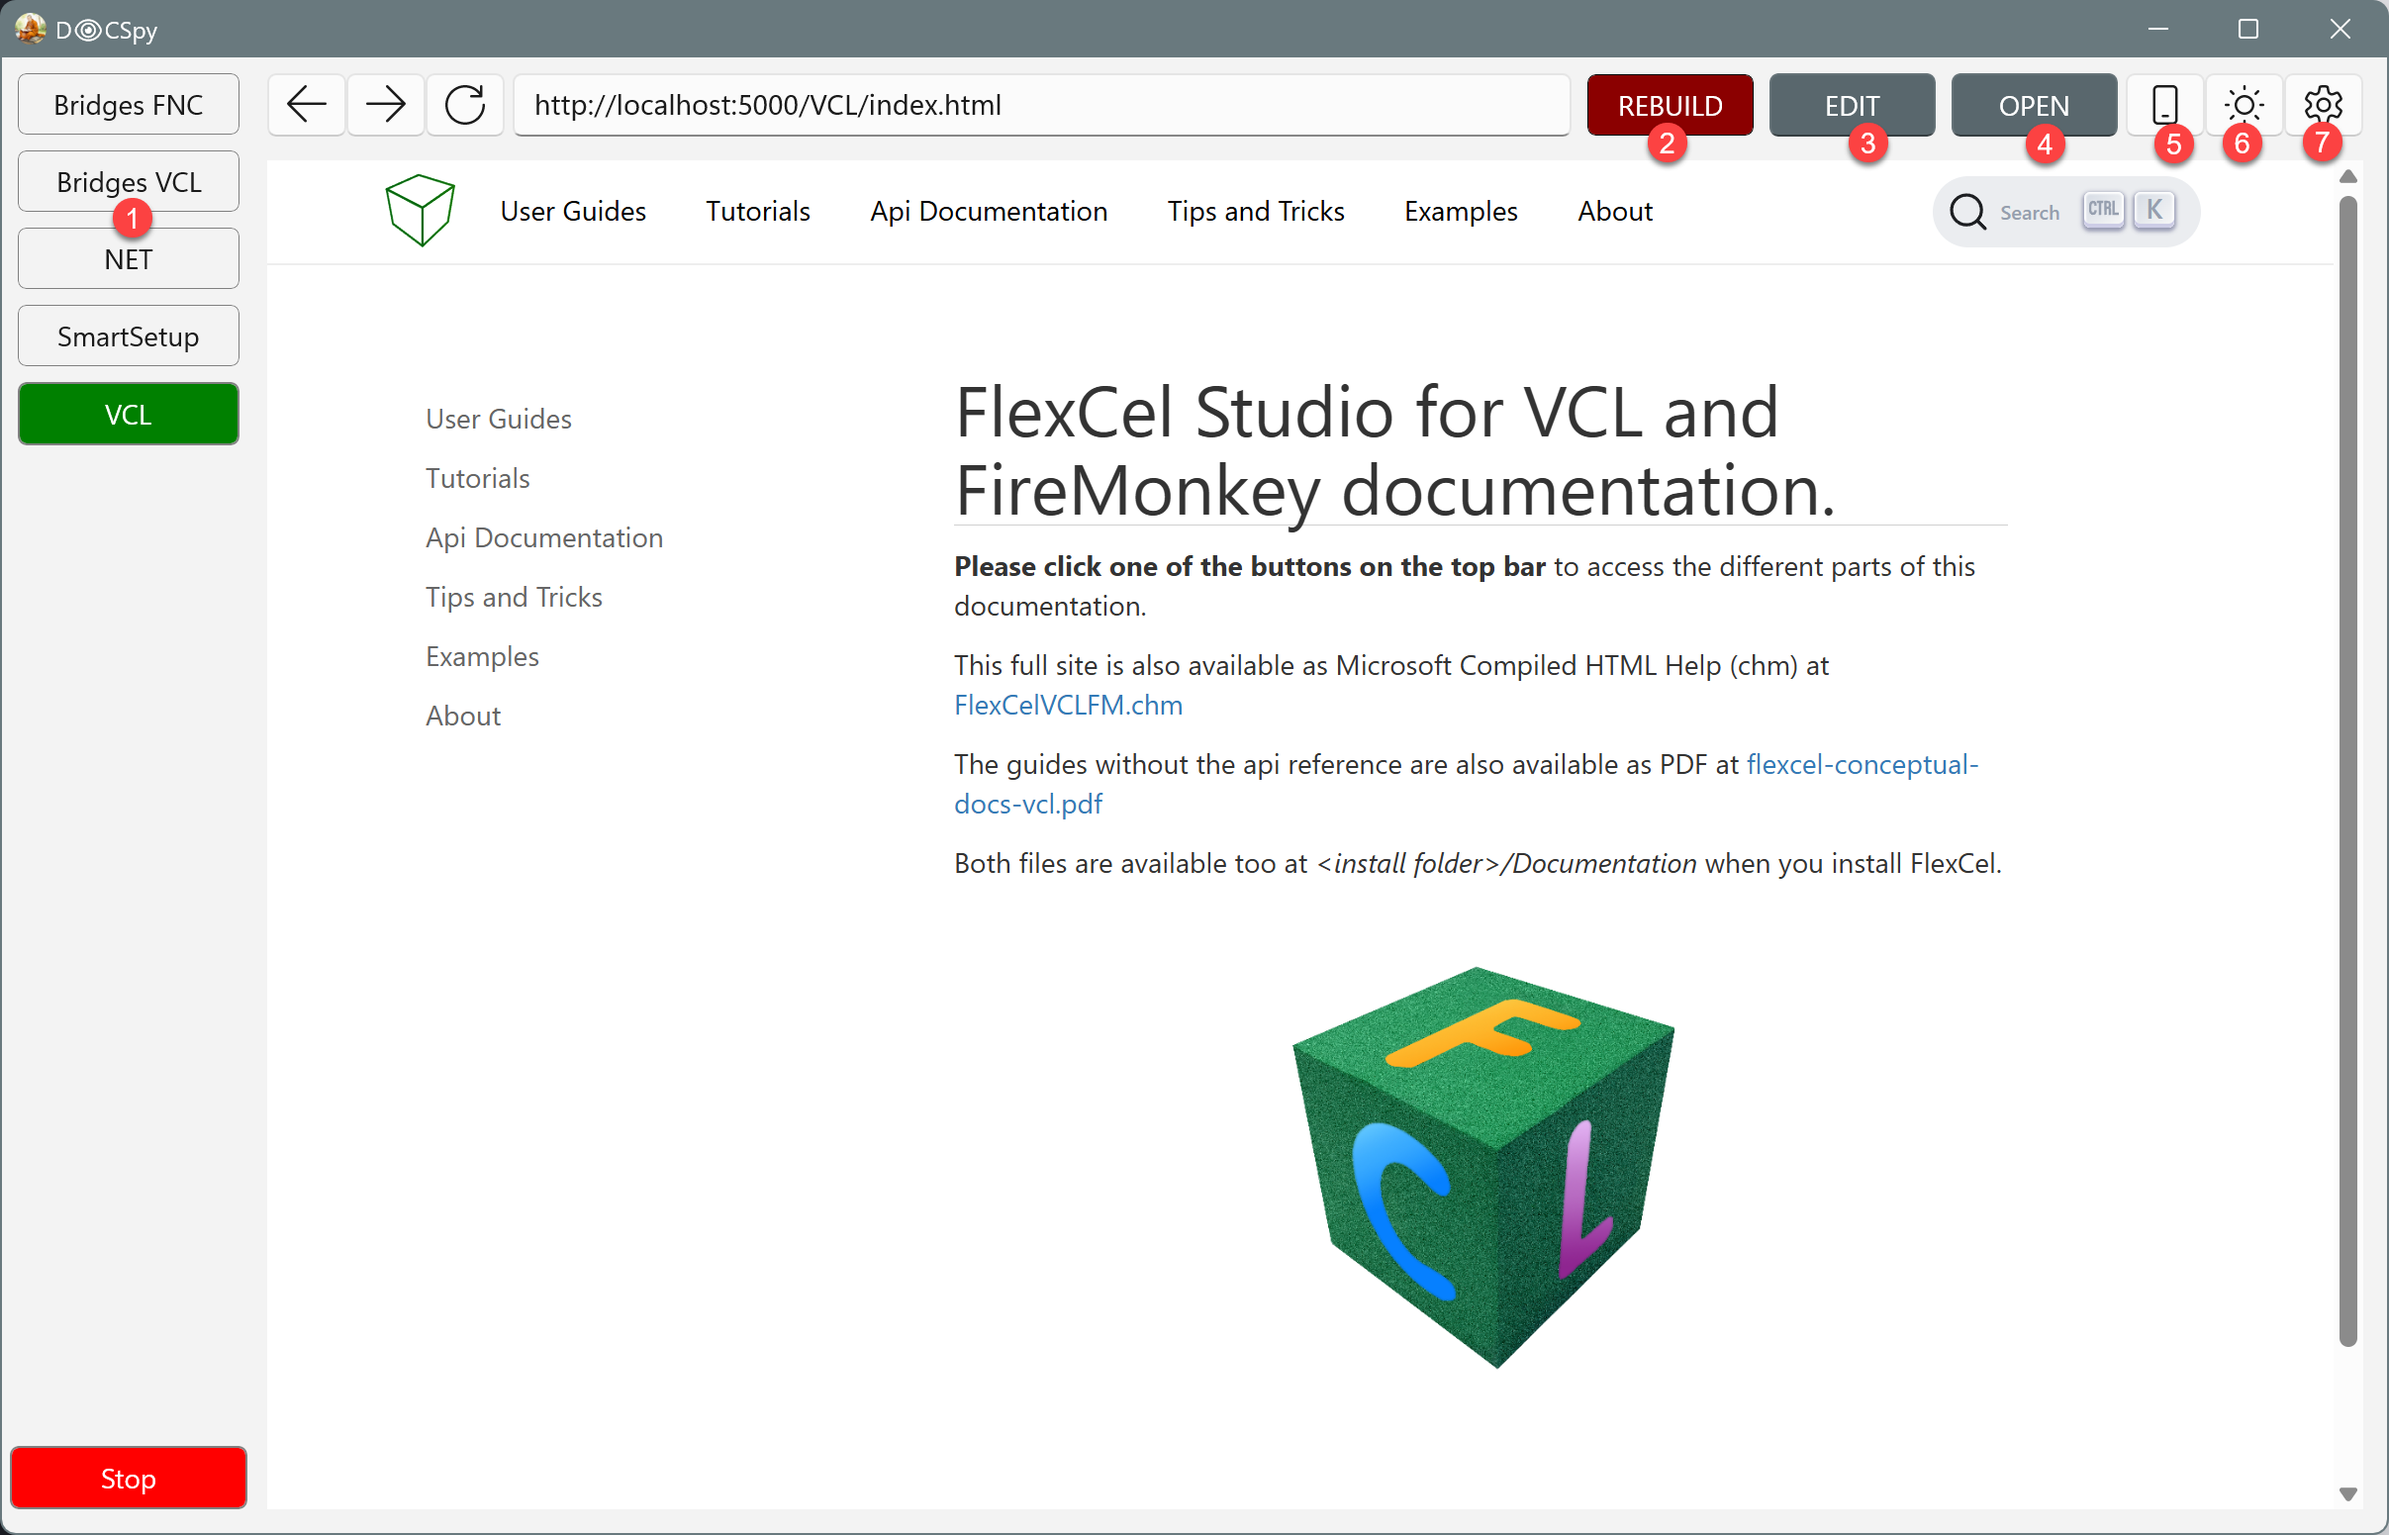
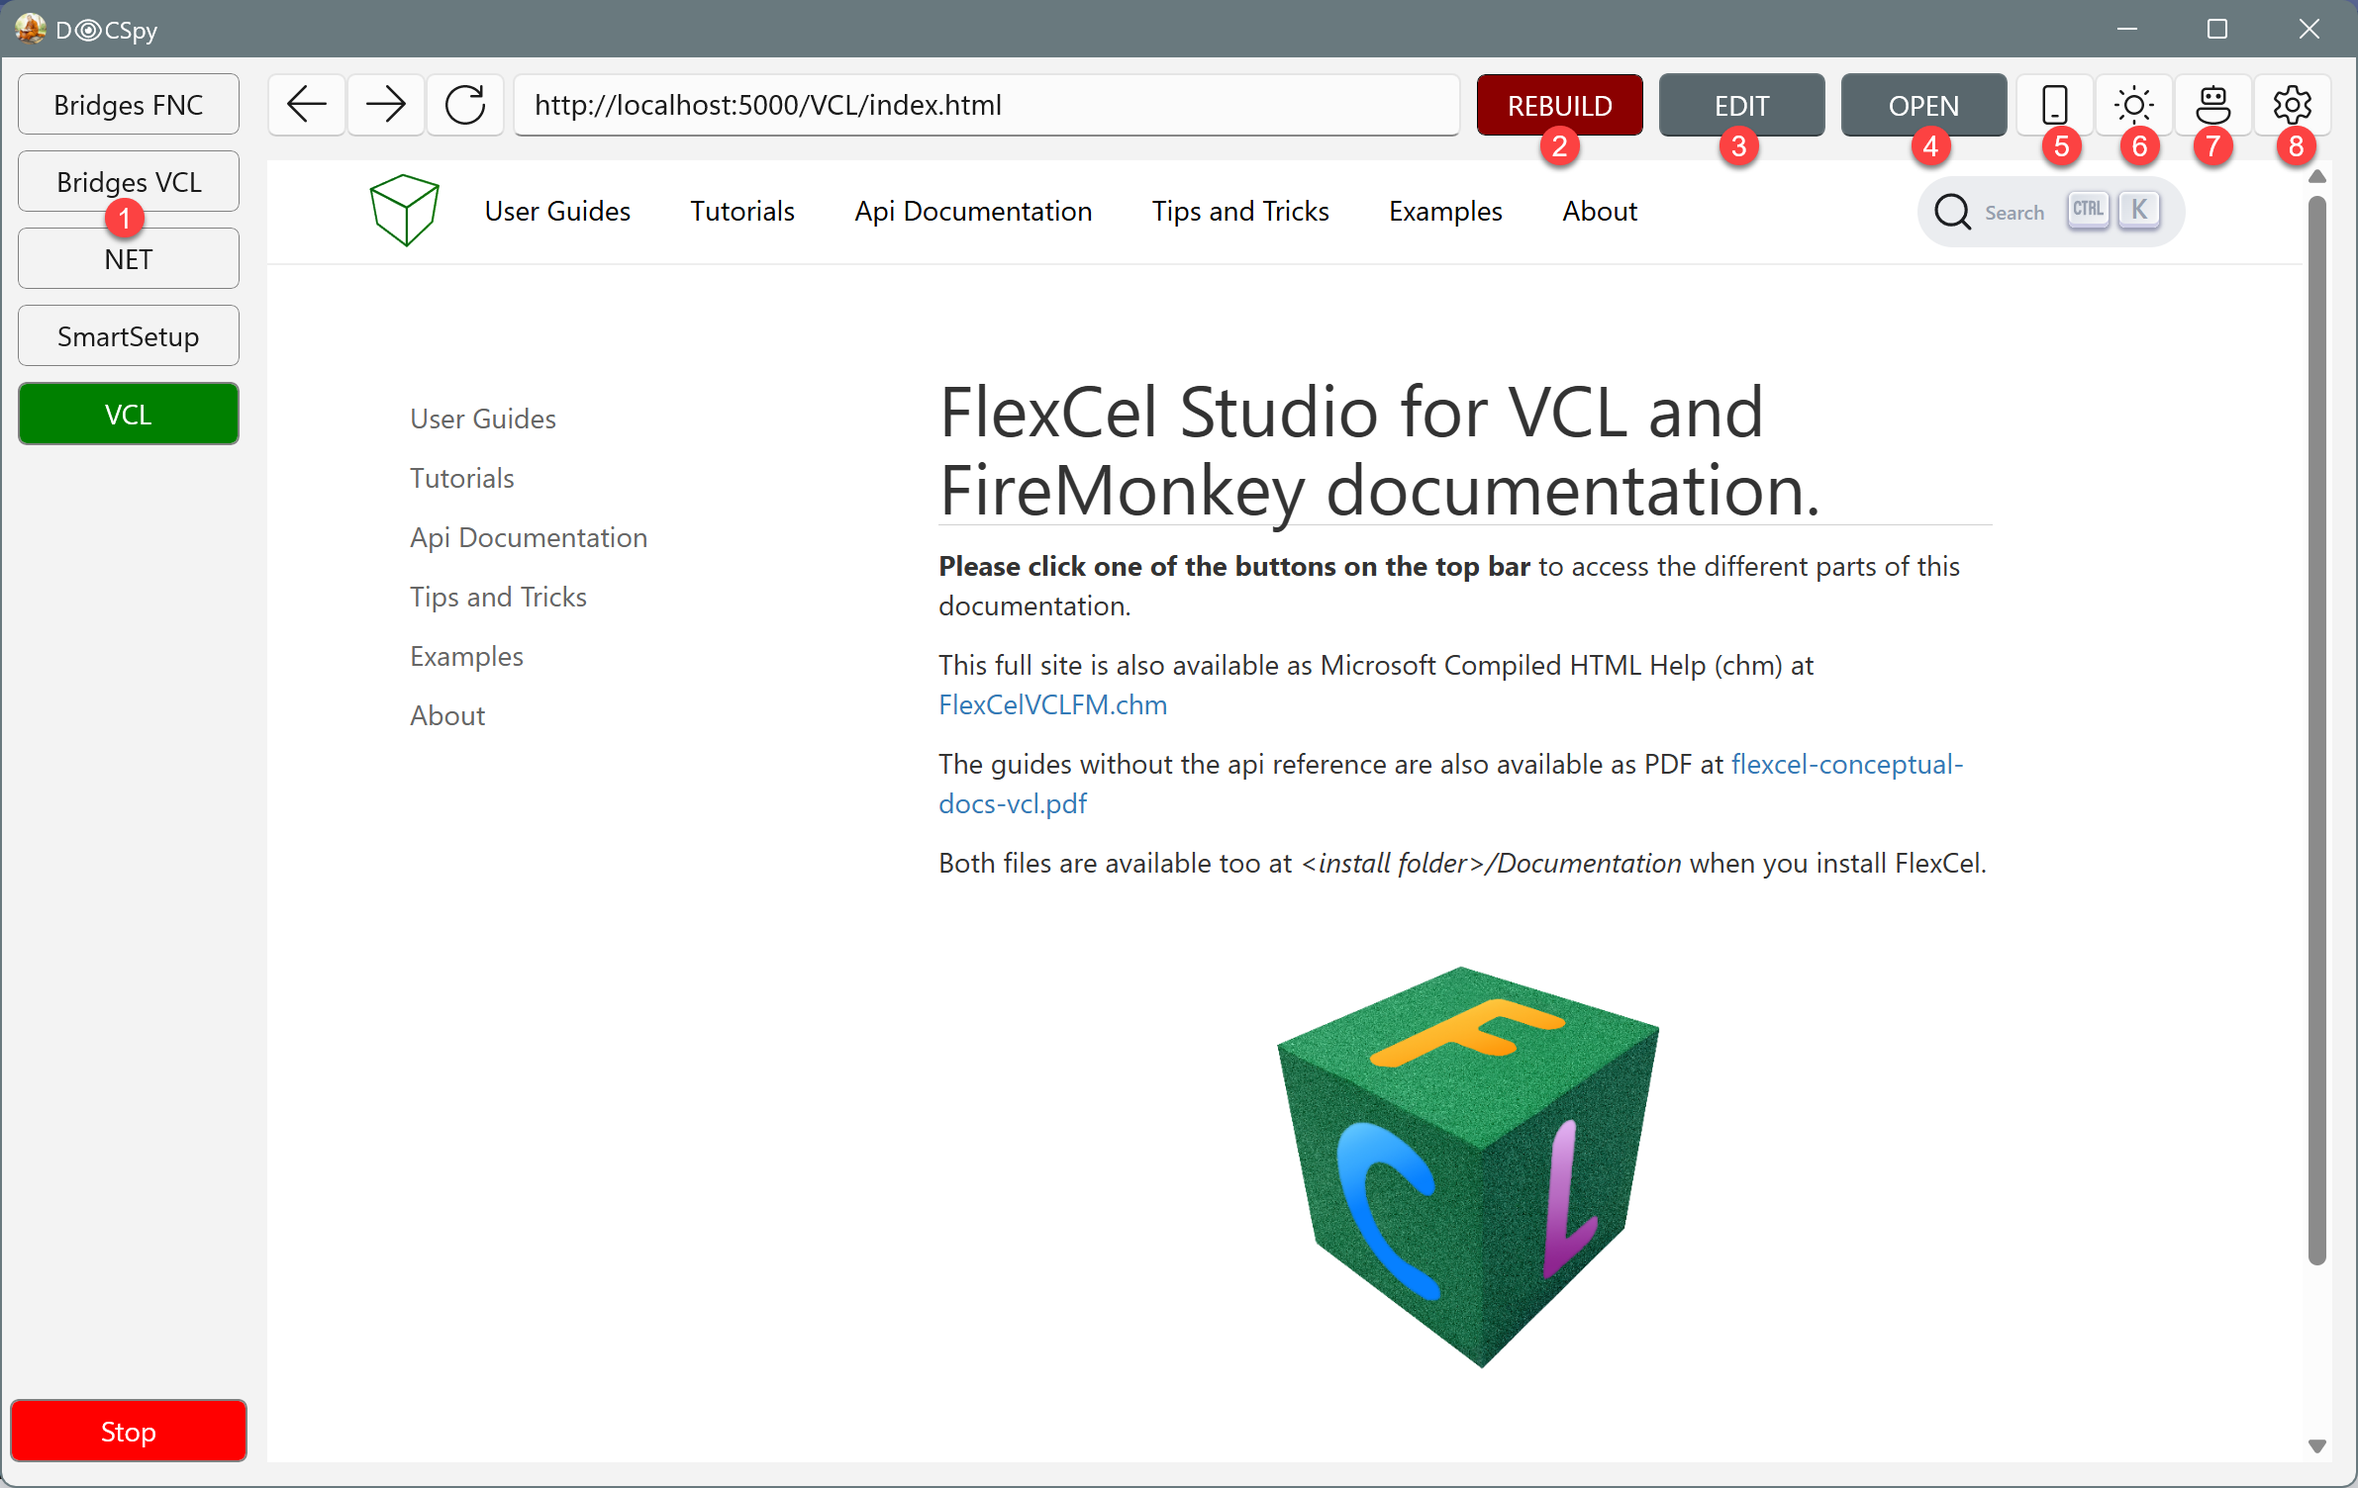
Updated docs for new button

diff --git a/README.md b/README.md
@@ -52,4 +52,5 @@ Once you have the settings done, and press `Ok` it should go to the following sc
 4. **Open button**: Will show a popup to open the html in a real browser, or open a file explorer where the html files are.
 5. **Size button**: Use it to resize the screen to a phone/tablet size.
 6. **Dark/Light mode button**: Will restart the app in Dark/Light mode so yo can see how the docs look in the different modes.
-7. **Settings button**: Will go to the settings page where you can edit the configuration file
+7. **JavaScript button**: Will show how the site looks when JavaScript is disabled.
+8. **Settings button**: Will go to the settings page where you can edit the configuration file
